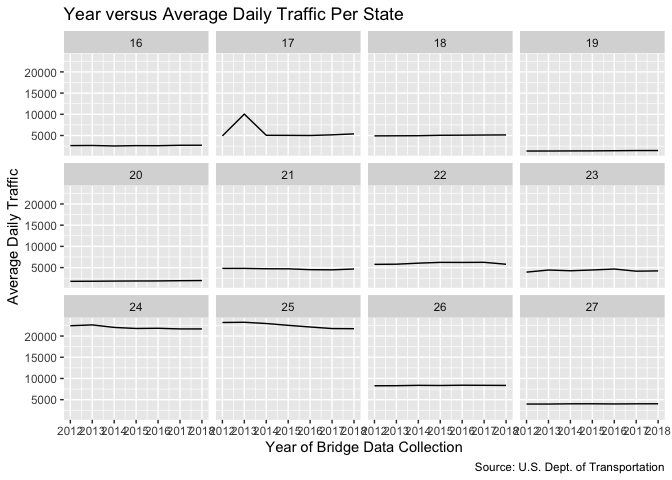
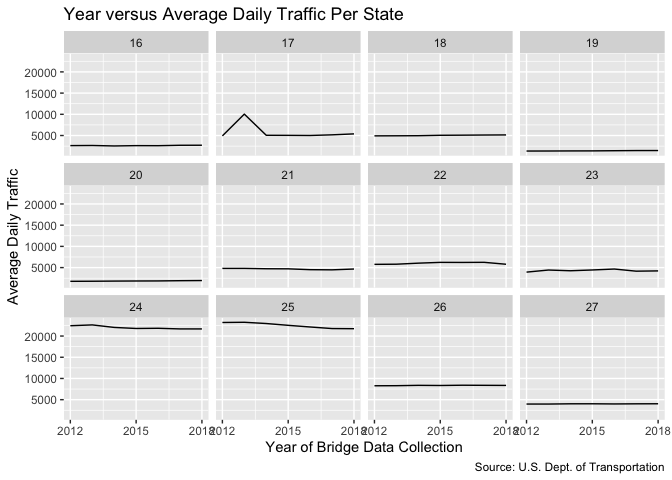
added my summary paragraphs and made some styling changes

diff --git a/README.md b/README.md
@@ -26,13 +26,13 @@ Install necessary packages.
     library(ggplot2)
     library(tidyverse)
 
-    ## ── Attaching packages ─────────
+    ## ── Attaching packages ─────────── tidyverse 1.3.0 ──
 
     ## ✔ tibble  2.1.3     ✔ purrr   0.3.3
     ## ✔ tidyr   1.0.0     ✔ stringr 1.4.0
     ## ✔ readr   1.3.1     ✔ forcats 0.4.0
 
-    ## ── Conflicts ──────────────────
+    ## ── Conflicts ────────────── tidyverse_conflicts() ──
     ## ✖ dplyr::between()   masks data.table::between()
     ## ✖ dplyr::filter()    masks stats::filter()
     ## ✖ dplyr::first()     masks data.table::first()
@@ -122,7 +122,7 @@ separate files, and then I combine the files into one master file.
            y = "Average Daily Traffic",
            title = "Year versus Average Daily Traffic Per State",
            caption = "Source: U.S. Dept. of Transportation") +
-      scale_x_continuous(breaks  = c(2012:2018)) +
+      scale_x_continuous(breaks  = c(2012, 2015, 2018)) +
       facet_wrap(~ st)
 
 ![](README_files/figure-markdown_strict/unnamed-chunk-3-1.png)
@@ -230,11 +230,11 @@ separate files, and then I combine the files into one master file.
     ## F-statistic: 6.416 on 7 and 763 DF,  p-value: 2.353e-07
 
 **Then, use the unemployed number and rate from the previous month as
-additional predictors.** The bridges data changes by year, and the BLS
-data changes by month. </br> To make the data match as the bridges data
-for that year fit with the BLS data of the month, I will make a model
-that takes the bridges data and unemployment number/rate from 2018 as
-features in a model to predict the unemployment rate of December 2019
+additional predictors.** </br> The bridges data changes by year, and the
+BLS data changes by month. </br> To make the data match as the bridges
+data for that year fit with the BLS data of the month, I will make a
+model that takes the bridges data and unemployment number/rate from 2018
+as features in a model to predict the unemployment rate of December 2019
 (the most recent bridges data is from 2018).
 
     br_2018 <- rbind(ID2018, IL2018, IN2018, IA2018, KS2018, KY2018, 
@@ -362,3 +362,34 @@ features in a model to predict the unemployment rate of December 2019
     ##   (96 observations deleted due to missingness)
     ## Multiple R-squared:  0.849,  Adjusted R-squared:  0.8474 
     ## F-statistic: 523.7 on 8 and 745 DF,  p-value: < 2.2e-16
+
+Summary of Findings and Methodology
+-----------------------------------
+
+</br> After reading in the bridges data for 12 states over 7 years and
+combining those files into one large tibble, I got to work on creating
+facets per state with the x-axis as time and the y-axis as average daily
+traffic. I was initially confused by having time on the x-axis because
+the bridges data does not contain many (if any) useful time type
+variables, but then I decided to use the year that the data wsa
+collected on the x-axis. Using this time variable made the most sense to
+track how the average daily traffic changes year-to-year. </br> </br>
+Next, I needed to join the bridges data to the BLS unemployment data.
+This presented another challenge when dealing with time. The bridges
+data is collected per year whereas the unemployment data is collected by
+month (and only the last 12 months of data was available). To address
+this discrepancy, I summarized the bridges data from 2012-2018 and
+joined that with the unemployment data from December 2018. The tables
+were joined by their fips code to create a final tibble (br\_bls) with a
+summary of the bridges and unemployment data for each fips code. </br>
+</br> Then, I created two models using the bridges data to predict the
+unemployment count and the unemployment rate. </br> </br> For the third
+model where we needed to predict the unemployment rate using the
+previous month’s rate as a predictor, I ran into the same problem I had
+earlier (the bridges data changes by year, but the BLS data changes by
+month). It doesn’t make sense to use the bridges data from 2012-2012 and
+the unemployment rate from December 2018 to predict the unemployment
+rate for December 2019. </br> To make address this problem, I made a
+model that took the bridges data from 2018 and unemployment number/rate
+from December 2018 as features in a model to predict the unemployment
+rate of December 2019.
